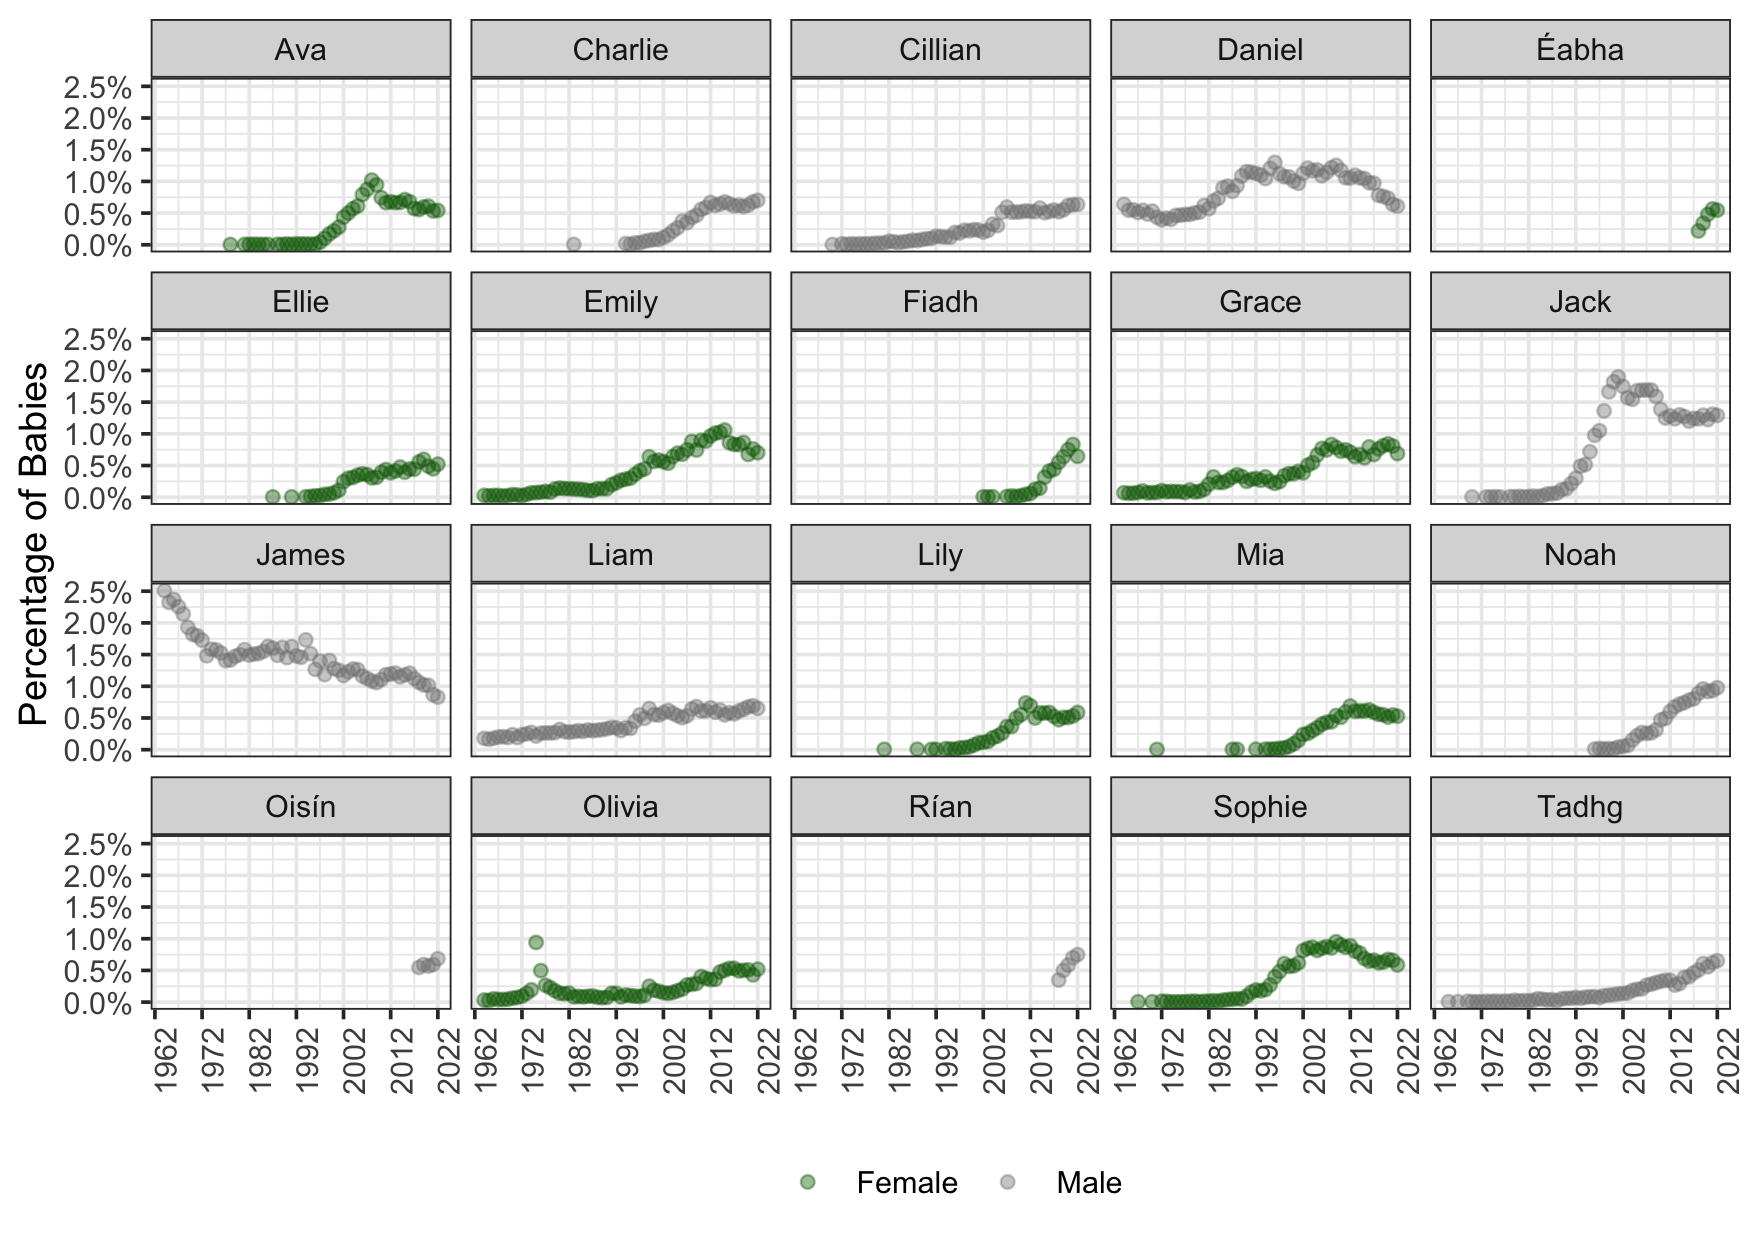
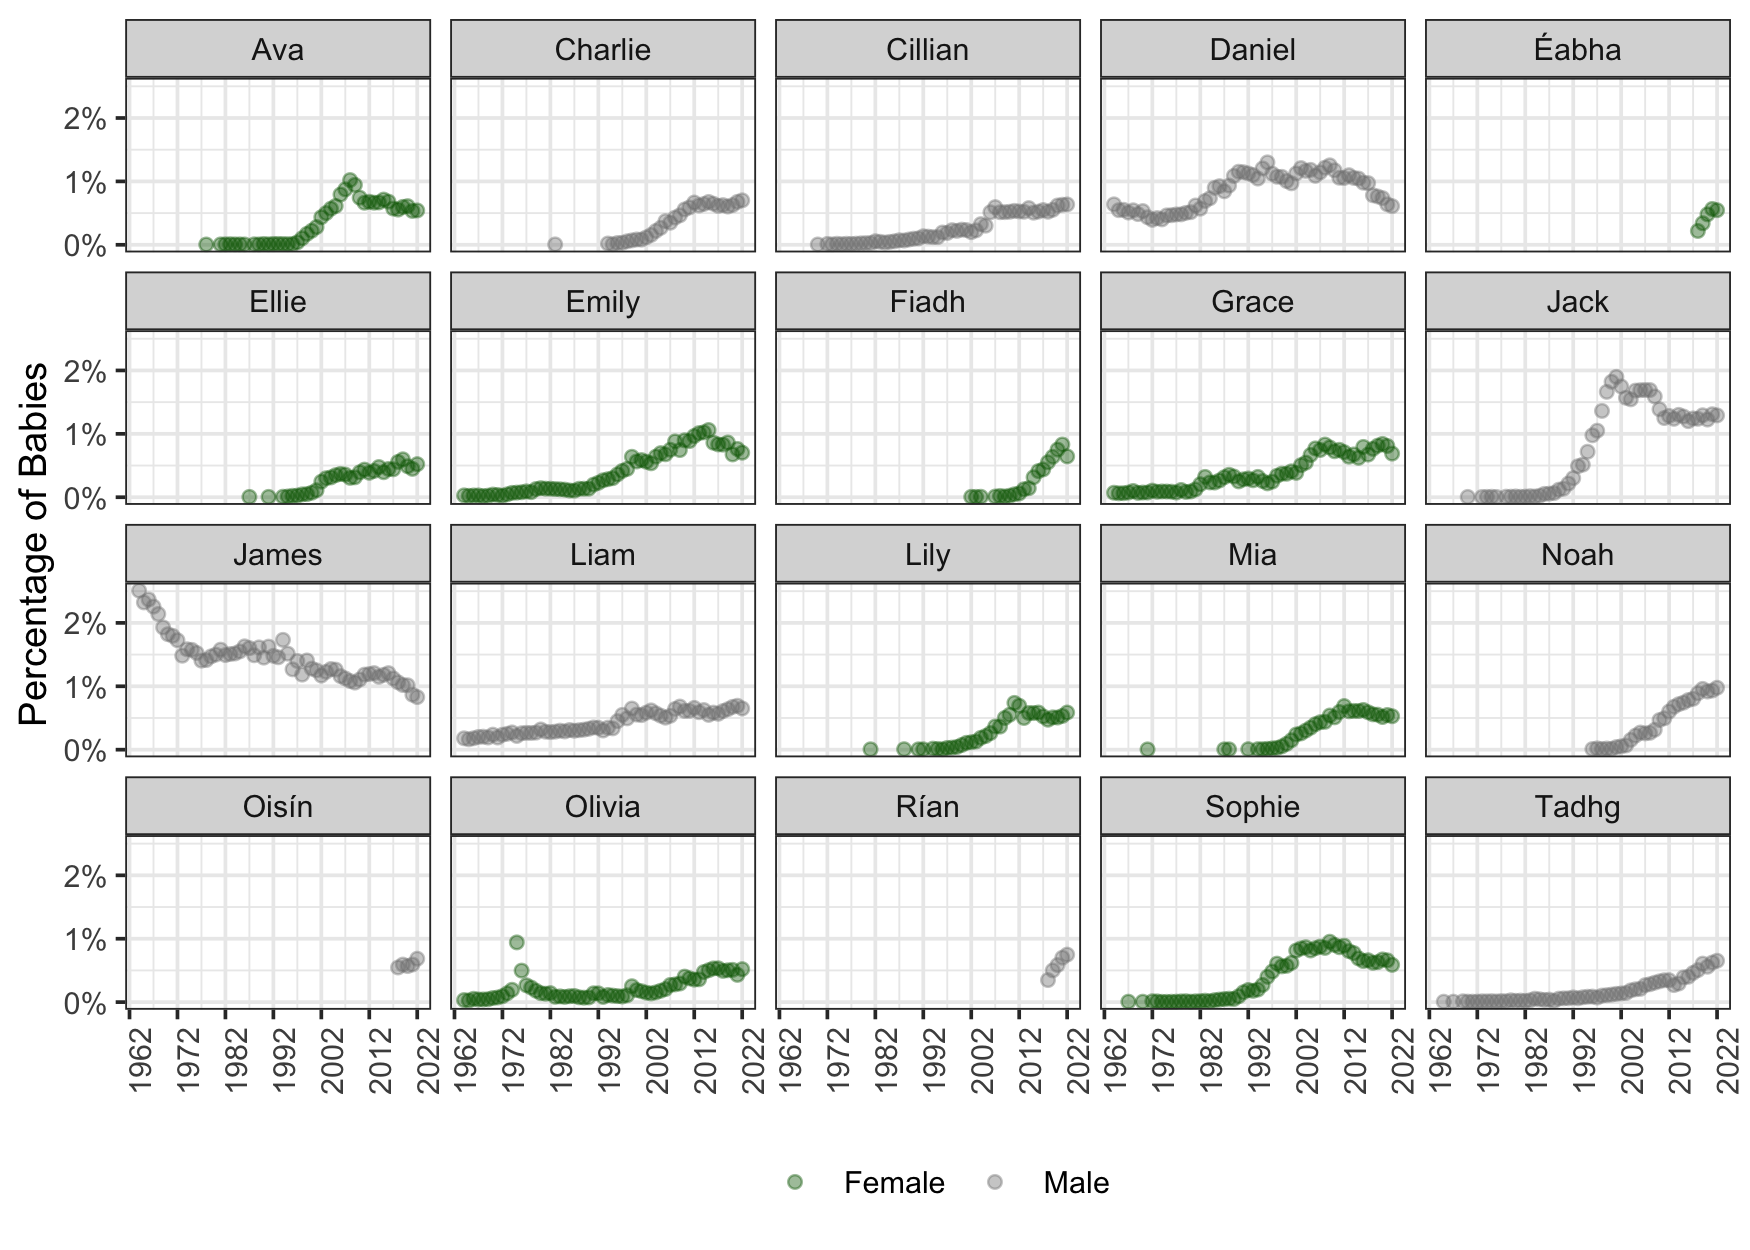
Improve graphs in README

diff --git a/README.md b/README.md
@@ -30,7 +30,7 @@ the latest development version:
 
 ``` r
 if (!require("devtools")) {
-  install.packages("devtools")
+    install.packages("devtools")
 }
 devtools::install_github("stefan-mueller/iebabynames") 
 ```
@@ -58,9 +58,9 @@ head(iebabynames)
 
 ``` r
 dat_top_2022 <- iebabynames %>% 
-  filter(year == "2022") %>% 
-  group_by(sex) %>% 
-  top_n(n = 10, wt = -rank) # get top 10
+    filter(year == "2022") %>% 
+    group_by(sex) %>% 
+    top_n(n = 10, wt = -rank) # get top 10
 
 dat_top_2022
 ## # A tibble: 20 × 7
@@ -94,25 +94,26 @@ dat_top_2022
 ``` r
 # combine name and sex for correct subsetting
 dat_top_2022 <- dat_top_2022 %>% 
-  mutate(name_sex = paste(name, sex, sep = "_"))  
+    mutate(name_sex = paste(name, sex, sep = "_"))  
 
 # extract all years for the most frequent names in 2022
 dat_top_timeseries <- iebabynames %>% 
-  mutate(name_sex = paste(name, sex, sep = "_")) %>% 
-  filter(name_sex %in% dat_top_2022$name_sex)
+    mutate(name_sex = paste(name, sex, sep = "_")) %>% 
+    filter(name_sex %in% dat_top_2022$name_sex)
 
 ggplot(data = dat_top_timeseries,
        aes(x = year, y = prop, colour = sex)) +
-  scale_colour_manual(values = c("darkgreen", "grey50")) +
-  scale_x_continuous(breaks = c(seq(1962, 2022, 10))) +
-  scale_y_continuous(labels = scales::percent) +
-  geom_point(alpha = 0.4) +
-  facet_wrap(~name) +
-  labs(x = NULL, y = "Percentage of Babies") +
-  theme_bw() +
-  theme(legend.title = element_blank(),
-        axis.text.x = element_text(angle = 90, hjust = 0.5),
-        legend.position = "bottom")
+    scale_colour_manual(values = c("darkgreen", "grey50")) +
+    scale_x_continuous(breaks = c(seq(1962, 2022, 10))) +
+    scale_y_continuous(labels = scales::percent,
+                       breaks = c(seq(0, 0.03, 0.01))) +
+    geom_point(alpha = 0.4) +
+    facet_wrap(~name) +
+    labs(x = NULL, y = "Percentage of Babies") +
+    theme_bw() +
+    theme(legend.title = element_blank(),
+          axis.text.x = element_text(angle = 90, hjust = 0.5),
+          legend.position = "bottom")
 ```
 
 ![](man/images/unnamed-chunk-6-1.png)<!-- -->
@@ -122,14 +123,14 @@ ggplot(data = dat_top_timeseries,
 ``` r
 ggplot(data = filter(iebabynames, name %in% c("John", "Mary")),
        aes(x = year, y = prop)) +
-  geom_smooth(se = FALSE) +
-  scale_x_continuous(breaks = c(seq(1962, 2022, 5))) +
-  scale_y_continuous(labels = scales::percent,
-                     breaks = c(seq(0, 0.06, 0.01))) +
-  geom_point(alpha = 0.4) +
-  facet_wrap(~name) +
-  labs(x = NULL, y = "Percentage of Babies") +
-  theme_bw()
+    geom_smooth(se = FALSE) +
+    scale_x_continuous(breaks = c(seq(1962, 2022, 5))) +
+    scale_y_continuous(labels = scales::percent,
+                       breaks = c(seq(0, 0.06, 0.01))) +
+    geom_point(alpha = 0.4) +
+    facet_wrap(~name) +
+    labs(x = NULL, y = "Percentage of Babies") +
+    theme_bw()
 ```
 
 ![](man/images/unnamed-chunk-7-1.png)<!-- -->
@@ -138,25 +139,25 @@ ggplot(data = filter(iebabynames, name %in% c("John", "Mary")),
 
 ``` r
 iebabynames_top <- iebabynames %>% 
-  group_by(sex, name) %>% 
-  summarise(n_total = sum(n)) %>% 
-  top_n(n = 10, wt = n_total)
+    group_by(sex, name) %>% 
+    summarise(n_total = sum(n)) %>% 
+    top_n(n = 10, wt = n_total)
 
-ggplot(iebabynames_top, aes(x = reorder(name, n_total),
-                            y = n_total,
+ggplot(iebabynames_top, aes(x = n_total,
+                            y = reorder(name, n_total), 
                             fill = sex)) +
-  geom_bar(stat = "identity") +
-  geom_text(aes(label = name), nudge_y = -2000, 
-            hjust = "right",
-            colour = "white") +
-  scale_fill_manual(values = c("darkgreen", "grey50")) +
-  coord_flip() +
-  theme_bw() +
-  labs(x = NULL, y = "Frequency (1964-2022)") +
-  theme(axis.text.y = element_blank(),
-        axis.ticks.y = element_blank(),
-        legend.title = element_blank(),
-        legend.position = "bottom") 
+    geom_bar(stat = "identity") +
+    geom_text(aes(label = name), nudge_x = -2000, 
+              hjust = "right",
+              colour = "white") +
+    scale_x_continuous(labels = scales::comma_format()) +
+    scale_fill_manual(values = c("darkgreen", "grey50")) +
+    theme_bw() +
+    labs(x = "Frequency (1964-2022)", y = NULL) +
+    theme(axis.text.y = element_blank(),
+          axis.ticks.y = element_blank(),
+          legend.title = element_blank(),
+          legend.position = "bottom") 
 ```
 
 ![](man/images/unnamed-chunk-8-1.png)<!-- -->
@@ -165,17 +166,17 @@ ggplot(iebabynames_top, aes(x = reorder(name, n_total),
 
 ``` r
 iebabynames_variants1 <- iebabynames %>% 
-  filter(name %in% c("Aoife", "Aoibhe", "Eva",
-                     "Eve"))
+    filter(name %in% c("Aoife", "Aoibhe", "Eva",
+                       "Eve"))
 
 ggplot(data = iebabynames_variants1,
        aes(x = year, y = n)) +
-  geom_smooth(se = FALSE) +
-  scale_x_continuous(breaks = c(seq(1970, 2022, 20))) +
-  geom_point(alpha = 0.4) +
-  facet_wrap(~name, nrow = 1) +
-  labs(x = NULL, y = "Frequency") +
-  theme_bw()
+    geom_smooth(se = FALSE) +
+    scale_x_continuous(breaks = c(seq(1970, 2022, 20))) +
+    geom_point(alpha = 0.4) +
+    facet_wrap(~name, nrow = 1) +
+    labs(x = NULL, y = "Frequency") +
+    theme_bw()
 ```
 
 ![](man/images/unnamed-chunk-9-1.png)<!-- -->
